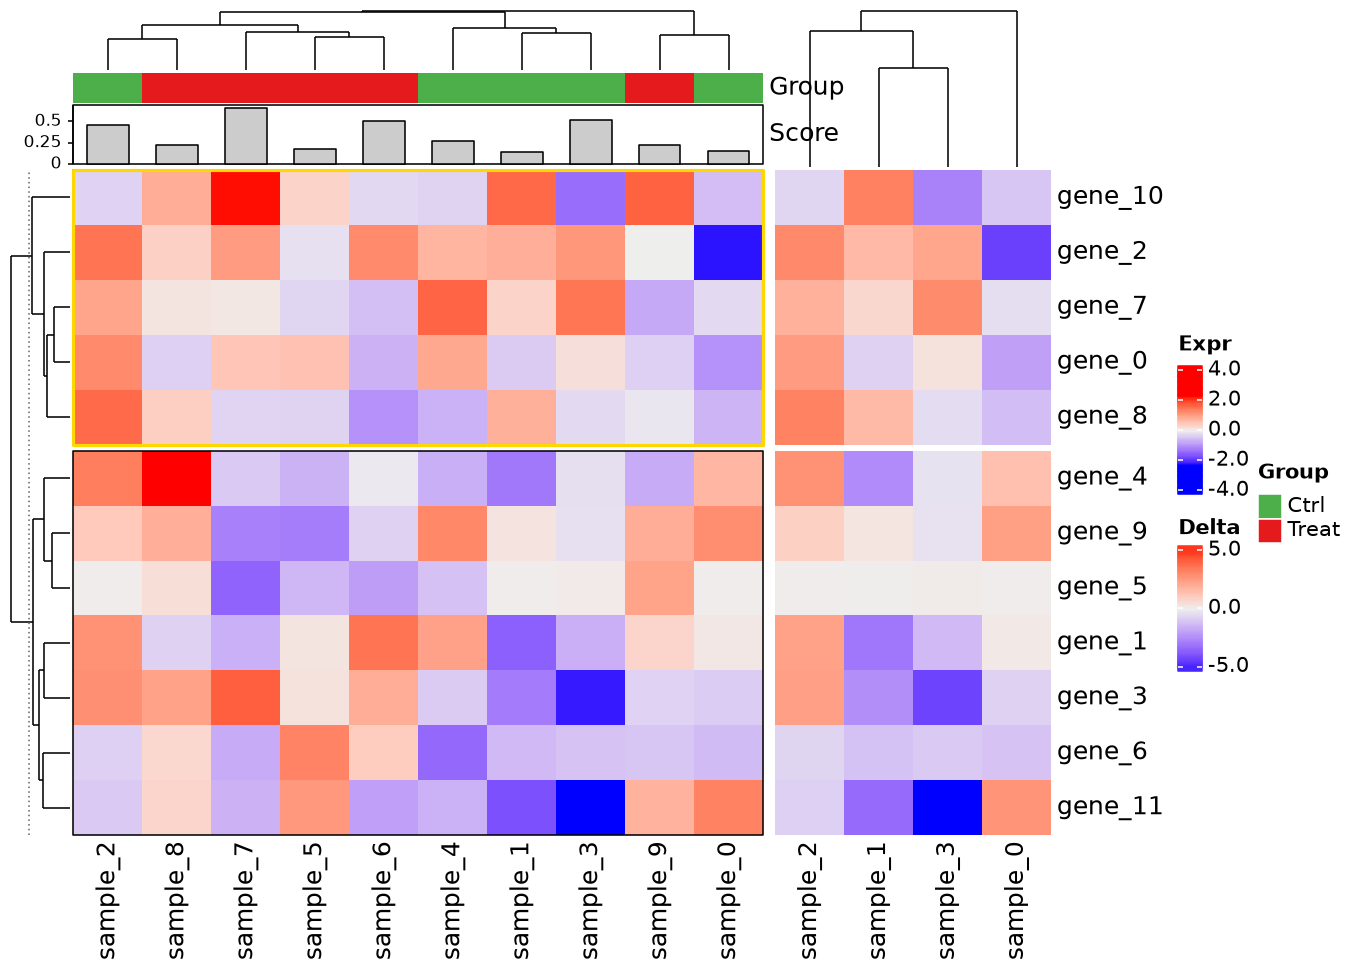
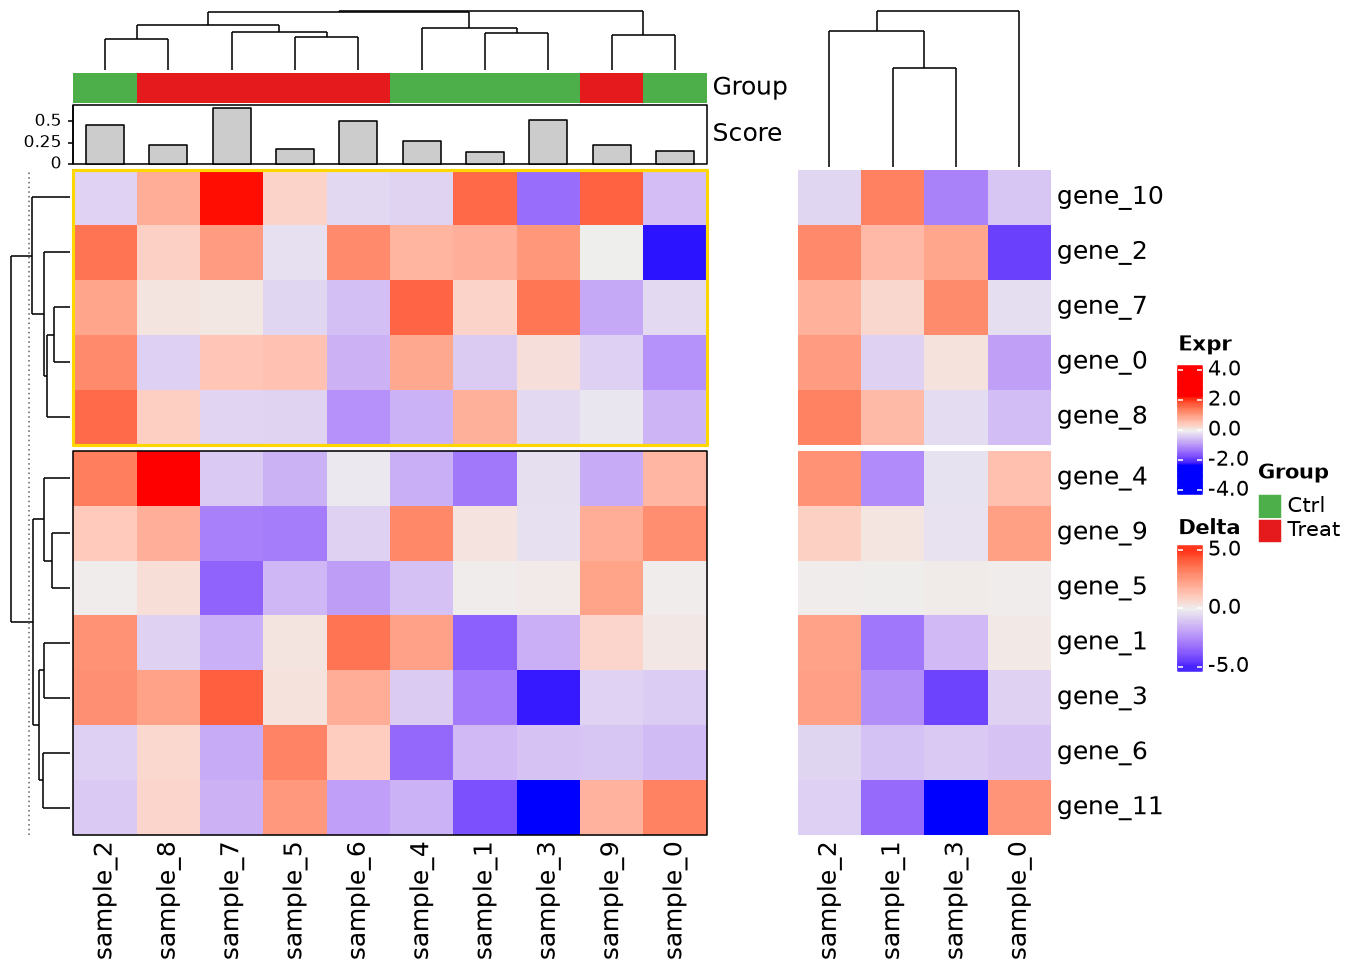
Auto-adjust interior ht_gap for extended annotation labels and add R comparison script

diff --git a/src/complexheatmap/heatmap_list.py b/src/complexheatmap/heatmap_list.py
@@ -460,6 +460,7 @@ class HeatmapList(AdditiveUnit):
         legend_grouping: str = "adjusted",
 
         ht_gap: Unit | None = None,
+        gap: Unit | None = None,
         main_heatmap: int | str | None = None,
         padding: Any = None,
         auto_adjust: bool = True,
@@ -514,7 +515,9 @@ class HeatmapList(AdditiveUnit):
             work.layout["initialized"] = True
             return work
 
-        gap_arg = ht_opt.ht_gap if ht_gap is None and hasattr(ht_opt, "ht_gap") and ht_opt.ht_gap is not None else ht_gap
+        eff_ht_gap_arg = ht_gap if ht_gap is not None else gap
+        user_explicit_ht_gap = eff_ht_gap_arg is not None
+        gap_arg = ht_opt.ht_gap if eff_ht_gap_arg is None and hasattr(ht_opt, "ht_gap") and ht_opt.ht_gap is not None else eff_ht_gap_arg
         eff_merge_legends = bool(ht_opt.merge_legends) if merge_legends is None else bool(merge_legends)
         if ht_opt.validate_names:
             seen_hn: set[str] = set()
@@ -807,7 +810,7 @@ class HeatmapList(AdditiveUnit):
         work.ht_list_param["padding"] = padding
 
         # Equalize perpendicular layout components across heatmaps
-        work._adjust_heatmap_list()
+        work._adjust_heatmap_list(user_explicit_ht_gap=user_explicit_ht_gap)
 
         # Global titles
         ct_gp = check_gp(gpar(fontsize=14) if column_title_gp is None else column_title_gp)
@@ -902,7 +905,7 @@ class HeatmapList(AdditiveUnit):
         work.layout["initialized"] = True
         return work
 
-    def _adjust_heatmap_list(self) -> None:
+    def _adjust_heatmap_list(self, user_explicit_ht_gap: bool = False) -> None:
         ht_indices = [i for i, item in enumerate(self.ht_list) if isinstance(item, Heatmap)]
         if not ht_indices:
             self.layout["heatmap_list_padding"] = [0.0, 0.0, 0.0, 0.0]
@@ -981,6 +984,66 @@ class HeatmapList(AdditiveUnit):
                         e_r = max(e_r, float(ann.extended.to_mm("x")[3]))
                 ext_right = max(0.0, e_r - right_used)
             self.layout["heatmap_list_padding"] = [pad_bot, ext_left, pad_top, ext_right]
+
+            # Auto-expand interior ht_gap so extended column-annotation labels/axes do not collide with neighbors
+            if not user_explicit_ht_gap and self.ht_list_param.get("auto_adjust", True) and len(self.ht_list) > 1:
+                def _has_top_band(item: Heatmap | HeatmapAnnotation) -> bool:
+                    if isinstance(item, Heatmap):
+                        return (
+                            item.top_annotation is not None
+                            or (
+                                bool(item.column_dend_param.get("show"))
+                                and item.column_dend_param.get("side") == "top"
+                                and any(d is not None for d in item.column_dend_list)
+                            )
+                            or (
+                                bool(item.column_names_param.get("show"))
+                                and item.column_names_param.get("side") == "top"
+                            )
+                        )
+                    return float(item.extended.to_mm("x")[2]) > 0.0
+
+                def _has_bot_band(item: Heatmap | HeatmapAnnotation) -> bool:
+                    if isinstance(item, Heatmap):
+                        return (
+                            item.bottom_annotation is not None
+                            or (
+                                bool(item.column_dend_param.get("show"))
+                                and item.column_dend_param.get("side") == "bottom"
+                                and any(d is not None for d in item.column_dend_list)
+                            )
+                            or (
+                                bool(item.column_names_param.get("show"))
+                                and item.column_names_param.get("side") == "bottom"
+                            )
+                        )
+                    return float(item.extended.to_mm("x")[0]) > 0.0
+
+                gaps_mm = [float(v) for v in self.ht_list_param["ht_gap"].to_mm("x")]
+                for i in range(len(self.ht_list) - 1):
+                    base_gap = gaps_mm[i]
+                    left_item = self.ht_list[i]
+                    right_item = self.ht_list[i + 1]
+                    left_right_w = (
+                        sum(convertWidth(left_item.layout["layout_size"][f"{c}_width"], "mm", valueOnly=True) for c in ("row_names_right", "row_anno_right", "row_dend_right", "row_title_right"))
+                        if isinstance(left_item, Heatmap) else 0.0
+                    )
+                    right_left_w = (
+                        sum(convertWidth(right_item.layout["layout_size"][f"{c}_width"], "mm", valueOnly=True) for c in ("row_title_left", "row_dend_left", "row_anno_left", "row_names_left"))
+                        if isinstance(right_item, Heatmap) else 0.0
+                    )
+                    l_top_r = float(left_item.top_annotation.extended.to_mm("x")[3]) if (isinstance(left_item, Heatmap) and left_item.top_annotation is not None) else 0.0
+                    r_top_l = float(right_item.top_annotation.extended.to_mm("x")[1]) if (isinstance(right_item, Heatmap) and right_item.top_annotation is not None) else 0.0
+                    top_ext_need = (l_top_r if _has_top_band(right_item) else 0.0) + (r_top_l if _has_top_band(left_item) else 0.0)
+                    top_gap_need = (top_ext_need + base_gap - left_right_w - right_left_w) if top_ext_need > 0.0 else 0.0
+
+                    l_bot_r = float(left_item.bottom_annotation.extended.to_mm("x")[3]) if (isinstance(left_item, Heatmap) and left_item.bottom_annotation is not None) else 0.0
+                    r_bot_l = float(right_item.bottom_annotation.extended.to_mm("x")[1]) if (isinstance(right_item, Heatmap) and right_item.bottom_annotation is not None) else 0.0
+                    bot_ext_need = (l_bot_r if _has_bot_band(right_item) else 0.0) + (r_bot_l if _has_bot_band(left_item) else 0.0)
+                    bot_gap_need = (bot_ext_need + base_gap - left_right_w - right_left_w) if bot_ext_need > 0.0 else 0.0
+
+                    gaps_mm[i] = max(base_gap, top_gap_need, bot_gap_need)
+                self.ht_list_param["ht_gap"] = unit(gaps_mm, "mm")
         else:
             row_pad_mm = convertWidth(as_unit(ht_opt.ROW_ANNO_PADDING, "mm"), "mm", valueOnly=True)
             left_ws = [convertWidth(self.ht_list[i].left_annotation.width, "mm", valueOnly=True) for i in ht_indices if self.ht_list[i].left_annotation is not None]
@@ -1015,7 +1078,103 @@ class HeatmapList(AdditiveUnit):
                 used_r = convertWidth(ls_i["row_names_right_width"], "mm", valueOnly=True) + convertWidth(ls_i["row_anno_right_width"], "mm", valueOnly=True)
                 ls_i["row_dend_left_width"] = unit(max(0.0, max_left_comp - used_l), "mm")
                 ls_i["row_dend_right_width"] = unit(max(0.0, max_right_comp - used_r), "mm")
-            self.layout["heatmap_list_padding"] = [0.0, 0.0, 0.0, 0.0]
+
+            # Compute outer padding for extended column-annotation left/right labels and outer row-annotation top/bottom labels
+            ext_left = 0.0
+            ext_right = 0.0
+            for item in self.ht_list:
+                if isinstance(item, HeatmapAnnotation):
+                    e = item.extended.to_mm("x")
+                    ext_left = max(ext_left, float(e[1]))
+                    ext_right = max(ext_right, float(e[3]))
+                elif isinstance(item, Heatmap):
+                    for ann in (item.top_annotation, item.bottom_annotation):
+                        if ann is not None:
+                            e = ann.extended.to_mm("x")
+                            ext_left = max(ext_left, float(e[1]))
+                            ext_right = max(ext_right, float(e[3]))
+            pad_left = max(0.0, ext_left - max_left_comp - max_rt_left)
+            pad_right = max(0.0, ext_right - max_right_comp - max_rt_right)
+
+            pad_top = 0.0
+            pad_bot = 0.0
+            first_item = self.ht_list[0]
+            if isinstance(first_item, Heatmap):
+                top_used = sum(convertHeight(first_item.layout["layout_size"][f"{c}_height"], "mm", valueOnly=True) for c in ("column_title_top", "column_dend_top", "column_names_top", "column_anno_top"))
+                e_t = 0.0
+                for ann in (first_item.left_annotation, first_item.right_annotation):
+                    if ann is not None:
+                        e_t = max(e_t, float(ann.extended.to_mm("x")[2]))
+                pad_top = max(0.0, e_t - top_used)
+            last_item = self.ht_list[-1]
+            if isinstance(last_item, Heatmap):
+                bot_used = sum(convertHeight(last_item.layout["layout_size"][f"{c}_height"], "mm", valueOnly=True) for c in ("column_title_bottom", "column_dend_bottom", "column_names_bottom", "column_anno_bottom"))
+                e_b = 0.0
+                for ann in (last_item.left_annotation, last_item.right_annotation):
+                    if ann is not None:
+                        e_b = max(e_b, float(ann.extended.to_mm("x")[0]))
+                pad_bot = max(0.0, e_b - bot_used)
+            self.layout["heatmap_list_padding"] = [pad_bot, pad_left, pad_top, pad_right]
+
+            # Auto-expand interior ht_gap so extended row-annotation labels/axes do not collide with vertical neighbors
+            if not user_explicit_ht_gap and self.ht_list_param.get("auto_adjust", True) and len(self.ht_list) > 1:
+                def _has_left_band(item: Heatmap | HeatmapAnnotation) -> bool:
+                    if isinstance(item, Heatmap):
+                        return (
+                            item.left_annotation is not None
+                            or (
+                                bool(item.row_dend_param.get("show"))
+                                and item.row_dend_param.get("side") == "left"
+                                and any(d is not None for d in item.row_dend_list)
+                            )
+                            or (
+                                bool(item.row_names_param.get("show"))
+                                and item.row_names_param.get("side") == "left"
+                            )
+                        )
+                    return float(item.extended.to_mm("x")[1]) > 0.0
+
+                def _has_right_band(item: Heatmap | HeatmapAnnotation) -> bool:
+                    if isinstance(item, Heatmap):
+                        return (
+                            item.right_annotation is not None
+                            or (
+                                bool(item.row_dend_param.get("show"))
+                                and item.row_dend_param.get("side") == "right"
+                                and any(d is not None for d in item.row_dend_list)
+                            )
+                            or (
+                                bool(item.row_names_param.get("show"))
+                                and item.row_names_param.get("side") == "right"
+                            )
+                        )
+                    return float(item.extended.to_mm("x")[3]) > 0.0
+
+                gaps_mm = [float(v) for v in self.ht_list_param["ht_gap"].to_mm("x")]
+                for i in range(len(self.ht_list) - 1):
+                    base_gap = gaps_mm[i]
+                    top_item = self.ht_list[i]
+                    bot_item = self.ht_list[i + 1]
+                    top_bot_h = (
+                        sum(convertHeight(top_item.layout["layout_size"][f"{c}_height"], "mm", valueOnly=True) for c in ("column_names_bottom", "column_anno_bottom", "column_dend_bottom", "column_title_bottom"))
+                        if isinstance(top_item, Heatmap) else 0.0
+                    )
+                    bot_top_h = (
+                        sum(convertHeight(bot_item.layout["layout_size"][f"{c}_height"], "mm", valueOnly=True) for c in ("column_title_top", "column_dend_top", "column_anno_top", "column_names_top"))
+                        if isinstance(bot_item, Heatmap) else 0.0
+                    )
+                    l_top_b = float(top_item.left_annotation.extended.to_mm("x")[0]) if (isinstance(top_item, Heatmap) and top_item.left_annotation is not None) else 0.0
+                    l_bot_t = float(bot_item.left_annotation.extended.to_mm("x")[2]) if (isinstance(bot_item, Heatmap) and bot_item.left_annotation is not None) else 0.0
+                    left_ext_need = (l_top_b if _has_left_band(bot_item) else 0.0) + (l_bot_t if _has_left_band(top_item) else 0.0)
+                    left_gap_need = (left_ext_need + base_gap - top_bot_h - bot_top_h) if left_ext_need > 0.0 else 0.0
+
+                    r_top_b = float(top_item.right_annotation.extended.to_mm("x")[0]) if (isinstance(top_item, Heatmap) and top_item.right_annotation is not None) else 0.0
+                    r_bot_t = float(bot_item.right_annotation.extended.to_mm("x")[2]) if (isinstance(bot_item, Heatmap) and bot_item.right_annotation is not None) else 0.0
+                    right_ext_need = (r_top_b if _has_right_band(bot_item) else 0.0) + (r_bot_t if _has_right_band(top_item) else 0.0)
+                    right_gap_need = (right_ext_need + base_gap - top_bot_h - bot_top_h) if right_ext_need > 0.0 else 0.0
+
+                    gaps_mm[i] = max(base_gap, left_gap_need, right_gap_need)
+                self.ht_list_param["ht_gap"] = unit(gaps_mm, "mm")
 
     def _compute_heatmap_list_spans(self, avail_w_mm: float, avail_h_mm: float) -> list[float]:
         """Allocate exact mm widths (horizontal) or heights (vertical) for each item in `ht_list`."""

diff --git a/tests/test_v02_improvements_and_visuals.py b/tests/test_v02_improvements_and_visuals.py
@@ -259,3 +259,83 @@ def test_visual_svg_and_rendered_pixel_layout():
     img3 = np.asarray(Image.open(buf3).convert("RGB"))
     center3 = img3[int(0.2 * img3.shape[0]):int(0.8 * img3.shape[0]), int(0.2 * img3.shape[1]):int(0.8 * img3.shape[1])]
     assert np.mean(np.min(center3, axis=2) < 220) > 0.05
+
+
+def test_annotation_extended_and_interior_ht_gap_auto_adjust():
+    rng = np.random.default_rng(123)
+    mat = pd.DataFrame(
+        rng.standard_normal((12, 10)),
+        index=[f"gene_{i}" for i in range(12)],
+        columns=[f"sample_{j}" for j in range(10)],
+    )
+    ha_top = HeatmapAnnotation(
+        Group=["Ctrl"] * 5 + ["Treat"] * 5,
+        Score=ch.anno_barplot(rng.uniform(0, 1, 10)),
+        col={"Group": {"Ctrl": "#4DAF4A", "Treat": "#E41A1C"}},
+    )
+    # Right-side annotation labels should report non-zero right extension (> 10 mm)
+    assert ha_top.anno_list["Group"].extended.to_mm("x")[3] > 10.0
+    assert ha_top.extended.to_mm("x")[3] > 10.0
+
+    # Left / top / bottom name_side extensions also populate the matching side index
+    ha_left = HeatmapAnnotation(LongName=["A"] * 10, annotation_name_side="left")
+    assert ha_left.extended.to_mm("x")[1] > 10.0
+    ra_top = ch.rowAnnotation(TopLbl=list(range(12)), annotation_name_side="top", annotation_name_rot=0)
+    ra_bot = ch.rowAnnotation(BotLbl=list(range(12)), annotation_name_side="bottom", annotation_name_rot=0)
+    assert ra_top.extended.to_mm("x")[2] > 3.0
+    assert ra_bot.extended.to_mm("x")[0] > 3.0
+
+    ht1 = Heatmap(mat, name="Expr", row_km=2, top_annotation=ha_top, border=True)
+    ht2 = Heatmap(mat.iloc[:, :4] * 2, name="Delta")
+    with ch.ht_opt.local(kmeans_seed=123):
+        res = draw(ht1 + ht2, width=9.0, height=6.5, dpi=100)
+
+    gap_mm = float(res.ht_list_param["ht_gap"].to_mm("x")[0])
+    assert gap_mm > 12.0
+
+    # Verify rendered "Group" and "Score" annotation labels stay left of Delta's column dendrogram viewport
+    # and do not overlap vertically with each other (disambiguating from legend title "Group").
+    dev = res._device
+    dev.fig.canvas.draw()
+    renderer = dev.fig.canvas.get_renderer()
+    inv_trans = dev.ax.transData.inverted()
+
+    seekViewport("annotation_Group_1")
+    vp_group = ch.current_viewport()
+    seekViewport("annotation_Score_1")
+    vp_score = ch.current_viewport()
+    anno_bands = {
+        "Group": (vp_group.y0_mm, vp_group.y0_mm + vp_group.h_mm),
+        "Score": (vp_score.y0_mm, vp_score.y0_mm + vp_score.h_mm),
+    }
+
+    label_bboxes = {}
+    for txt in dev.ax.texts:
+        s = txt.get_text()
+        if s in anno_bands:
+            bb = txt.get_window_extent(renderer=renderer)
+            pts_mm = inv_trans.transform([[bb.x0, bb.y0], [bb.x1, bb.y1]])
+            ymid = 0.5 * (float(pts_mm[0, 1]) + float(pts_mm[1, 1]))
+            y_lo, y_hi = anno_bands[s]
+            if y_lo <= ymid <= y_hi:
+                label_bboxes[s] = (float(pts_mm[0, 0]), float(pts_mm[0, 1]), float(pts_mm[1, 0]), float(pts_mm[1, 1]))
+    assert set(label_bboxes.keys()) == {"Group", "Score"}
+
+    # Check Delta column dendrogram left bound in mm and vertical separation
+    seekViewport("Delta_dend_column_1")
+    delta_dend_vp = ch.current_viewport()
+    assert label_bboxes["Group"][2] < delta_dend_vp.x0_mm
+    assert label_bboxes["Score"][2] < delta_dend_vp.x0_mm
+    assert label_bboxes["Score"][3] < label_bboxes["Group"][1]
+
+    # Explicit ht_gap / gap override must be respected untouched
+    res_exp = draw(ht1 + ht2, ht_gap=unit(3.0, "mm"), width=9.0, height=6.5, dpi=100)
+    assert float(res_exp.ht_list_param["ht_gap"].to_mm("x")[0]) == pytest.approx(3.0)
+    res_gap_alias = draw(ht1 + ht2, gap=unit(4.5, "mm"), width=9.0, height=6.5, dpi=100)
+    assert float(res_gap_alias.ht_list_param["ht_gap"].to_mm("x")[0]) == pytest.approx(4.5)
+
+    # Vertical concatenation auto-expands gap when row annotation labels extend vertically
+    v1 = Heatmap(mat.iloc[:6, :], name="V1", right_annotation=ra_bot[:6], show_column_names=False)
+    v2 = Heatmap(mat.iloc[6:, :], name="V2", right_annotation=ra_top[6:])
+    res_v = draw(v1 / v2, width=7.0, height=6.5, dpi=100)
+    assert float(res_v.ht_list_param["ht_gap"].to_mm("x")[0]) > 5.0

diff --git a/src/complexheatmap/annotations.py b/src/complexheatmap/annotations.py
@@ -22,6 +22,8 @@ from .grid import (
     grid_rect,
     grid_text,
     linesGrob,
+    max_text_height,
+    max_text_width,
     popViewport,
     pushViewport,
     segmentsGrob,
@@ -634,6 +636,7 @@ class SingleAnnotation:
             self.show_legend = False
             if not af.show_name:
                 show_name = False
+            self._fun_extended: Unit = af.extended
             self.extended = af.extended
             self.width = af.width
             self.height = af.height
@@ -698,6 +701,7 @@ class SingleAnnotation:
             )
             self.width = self.fun.width
             self.height = self.fun.height
+            self._fun_extended = self.fun.extended
             self.extended = self.fun.extended
             self.subsettable = self.fun.subsettable
 
@@ -789,6 +793,30 @@ class SingleAnnotation:
             "offset": off_u,
             "label": lbl_txt,
         }
+        self._recompute_extended()
+
+    def _recompute_extended(self) -> None:
+        base_mm = [float(v) for v in self._fun_extended.to_mm("x")]
+        np_d = self.name_param
+        if np_d.get("show"):
+            lbl = np_d["label"]
+            gp_d = np_d["gp"]
+            rot = float(np_d["rot"])
+            off_u = np_d["offset"]
+            side = np_d["side"]
+            if self.which == "column":
+                tw_mm = convertWidth(max_text_width(lbl, gp=gp_d, rot=rot) + off_u, "mm", valueOnly=True)
+                if side == "left":
+                    base_mm[1] = max(base_mm[1], tw_mm)
+                elif side == "right":
+                    base_mm[3] = max(base_mm[3], tw_mm)
+            else:
+                th_mm = convertHeight(max_text_height(lbl, gp=gp_d, rot=rot) + off_u, "mm", valueOnly=True)
+                if side == "bottom":
+                    base_mm[0] = max(base_mm[0], th_mm)
+                elif side == "top":
+                    base_mm[2] = max(base_mm[2], th_mm)
+        self.extended = unit(base_mm, "mm")
 
     def copy_all(self) -> "SingleAnnotation":
         cp = copy.copy(self)
@@ -819,6 +847,8 @@ class SingleAnnotation:
         cp.fun = cp.fun[i]
         cp.width = cp.fun.width
         cp.height = cp.fun.height
+        cp._fun_extended = cp.fun.extended
+        cp._recompute_extended()
         return cp
 
     def draw(
@@ -1216,6 +1246,7 @@ class HeatmapAnnotation(AdditiveUnit):
                 for sa in targets:
                     sa.name_param["offset"] = u_mx
                     sa.name_param[coord_key] = unit(base_val, "npc") + sign * u_mx
+                    sa._recompute_extended()
 
     def re_size(
         self,

diff --git a/tests/test_annotations_and_legends.py b/tests/test_annotations_and_legends.py
@@ -108,6 +108,8 @@ def test_legends_and_packlegend():
 def test_all_11_decorate_functions():
     rng = np.random.default_rng(11)
     mat = pd.DataFrame(rng.standard_normal((10, 8)), index=[f"r{i}" for i in range(10)], columns=[f"c{j}" for j in range(8)])
+    mat.iloc[:5, :4] -= 2.5
+    mat.iloc[5:, 4:] += 2.5
     ha = HeatmapAnnotation(grp=["A", "B"] * 4)
     ht = Heatmap(
         mat,
@@ -118,7 +120,8 @@ def test_all_11_decorate_functions():
         column_title=["C1", "C2"],
         top_annotation=ha,
     )
-    draw(ht)
+    with ch.ht_opt.local(kmeans_seed=11):
+        draw(ht)
     comps = list_components()
     assert "M_heatmap_body_1_1" in comps
     assert "annotation_grp_1" in comps
